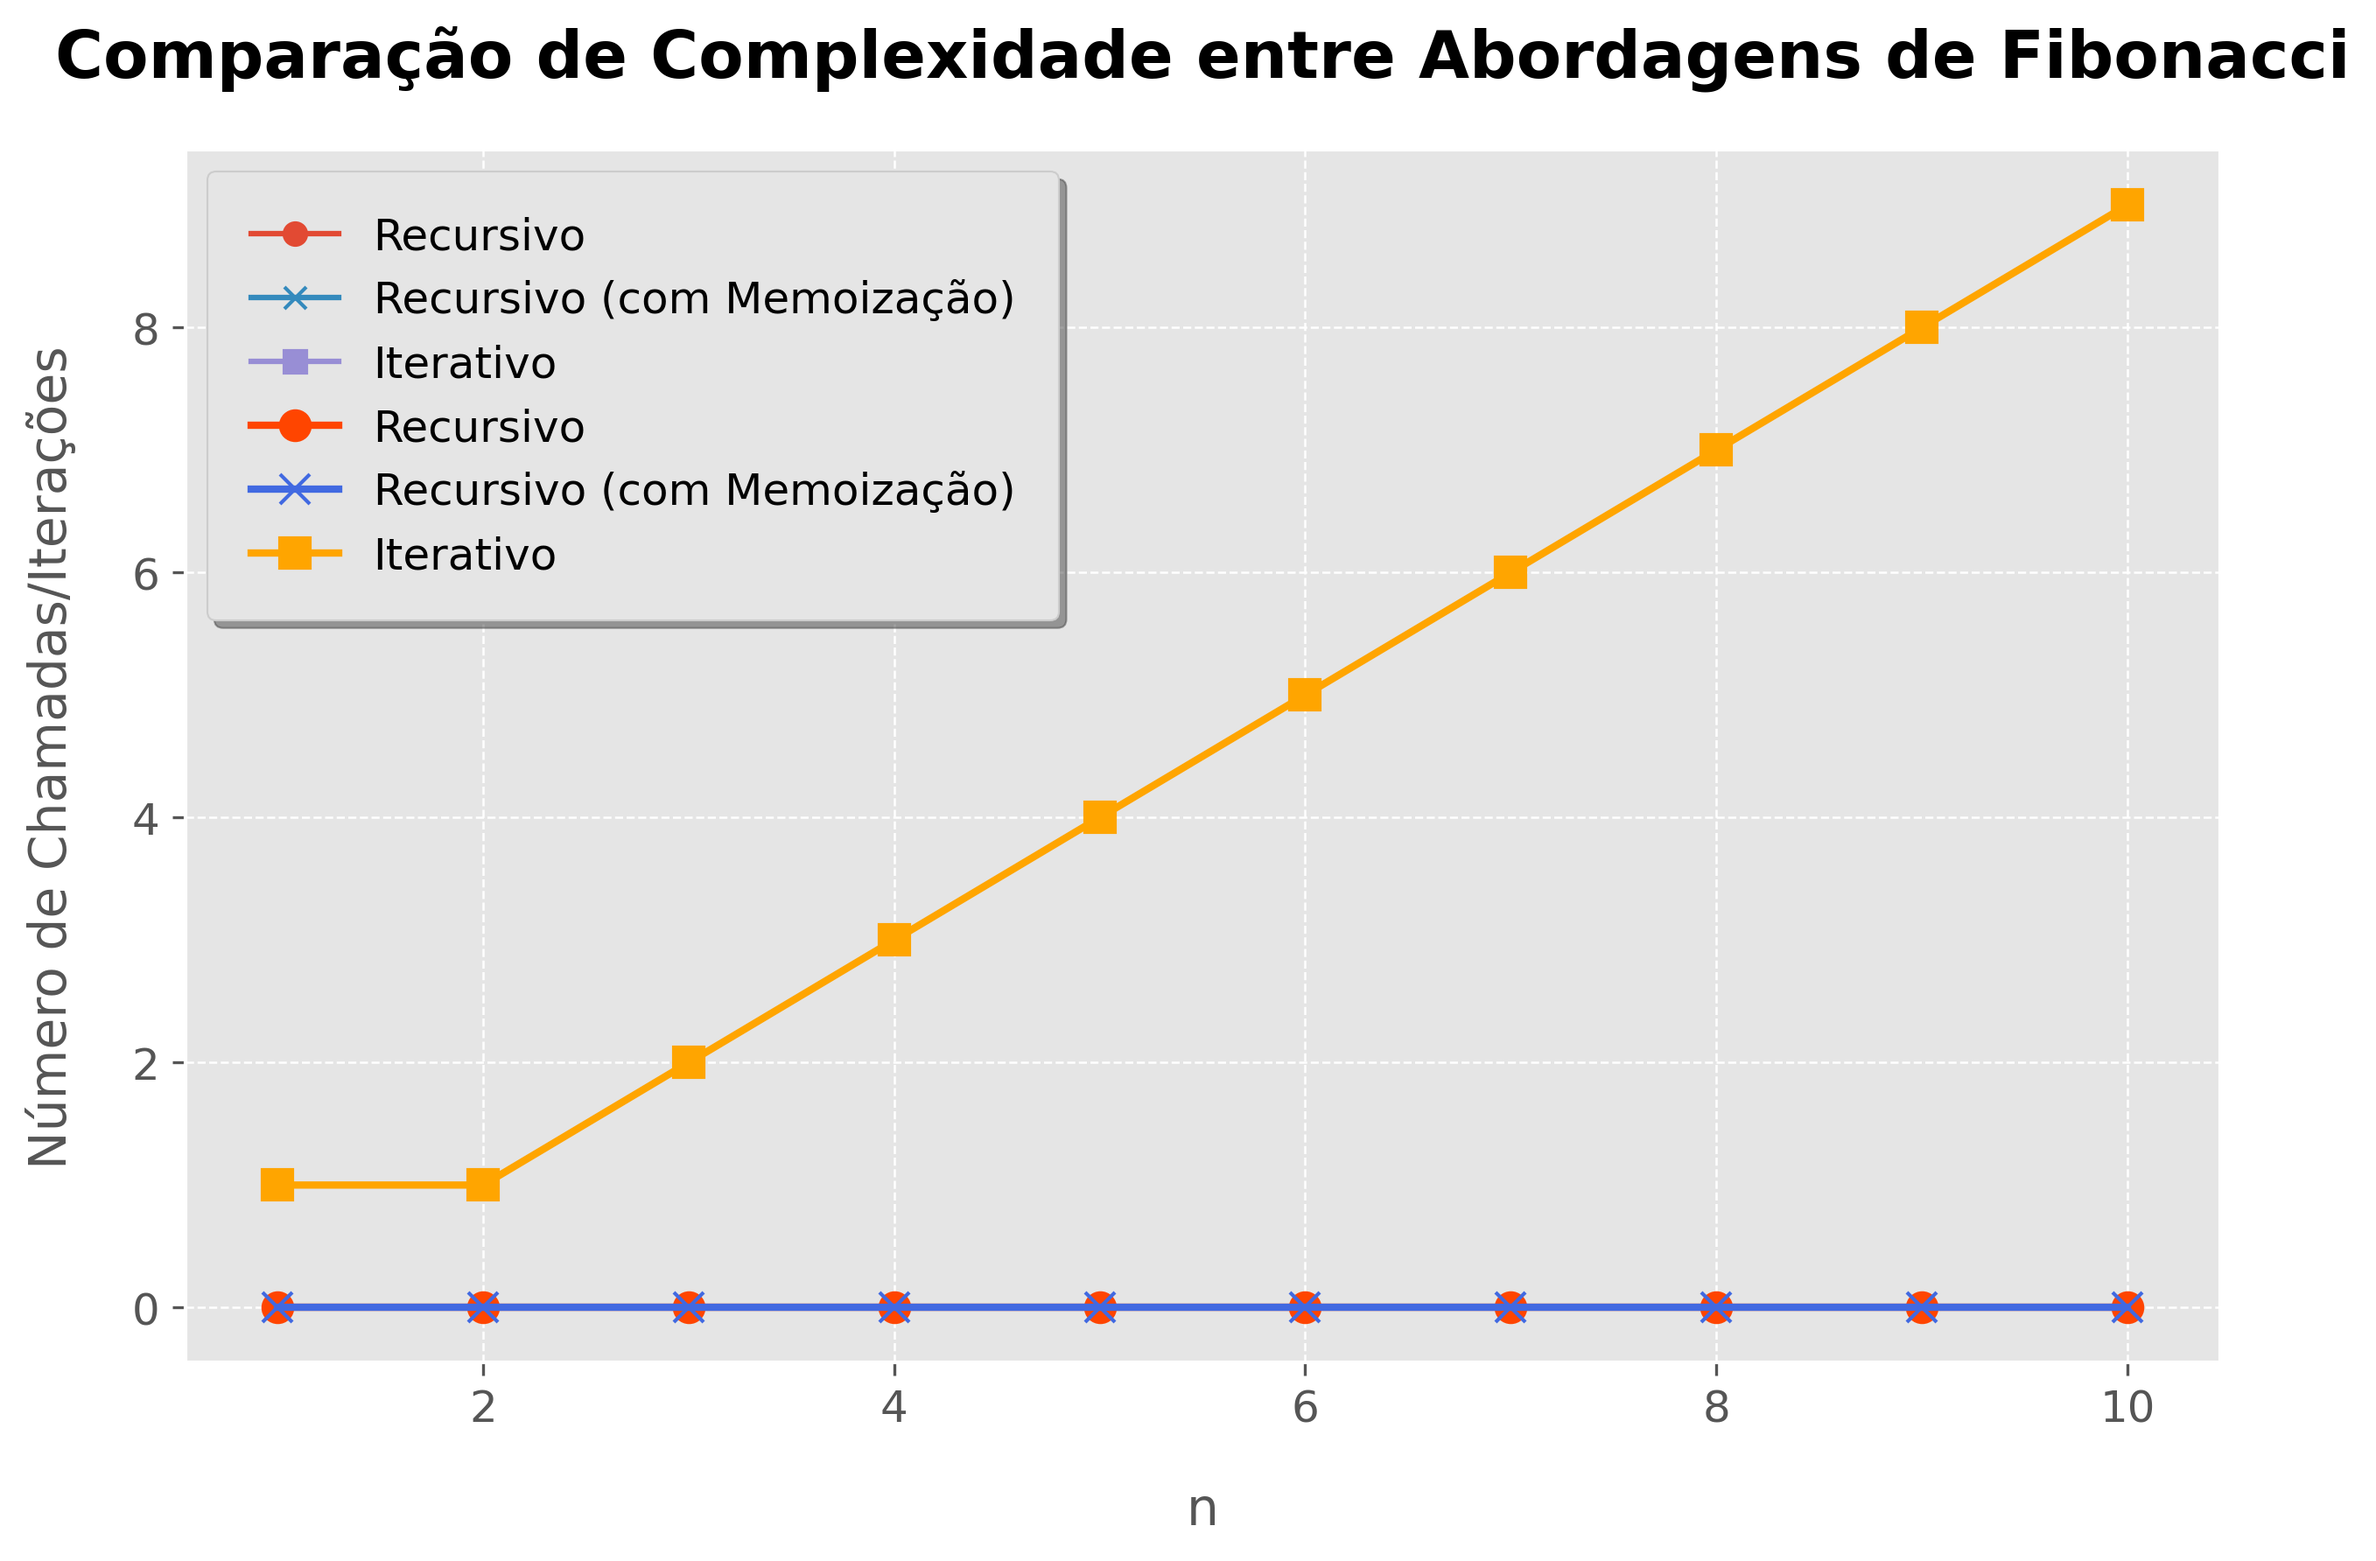
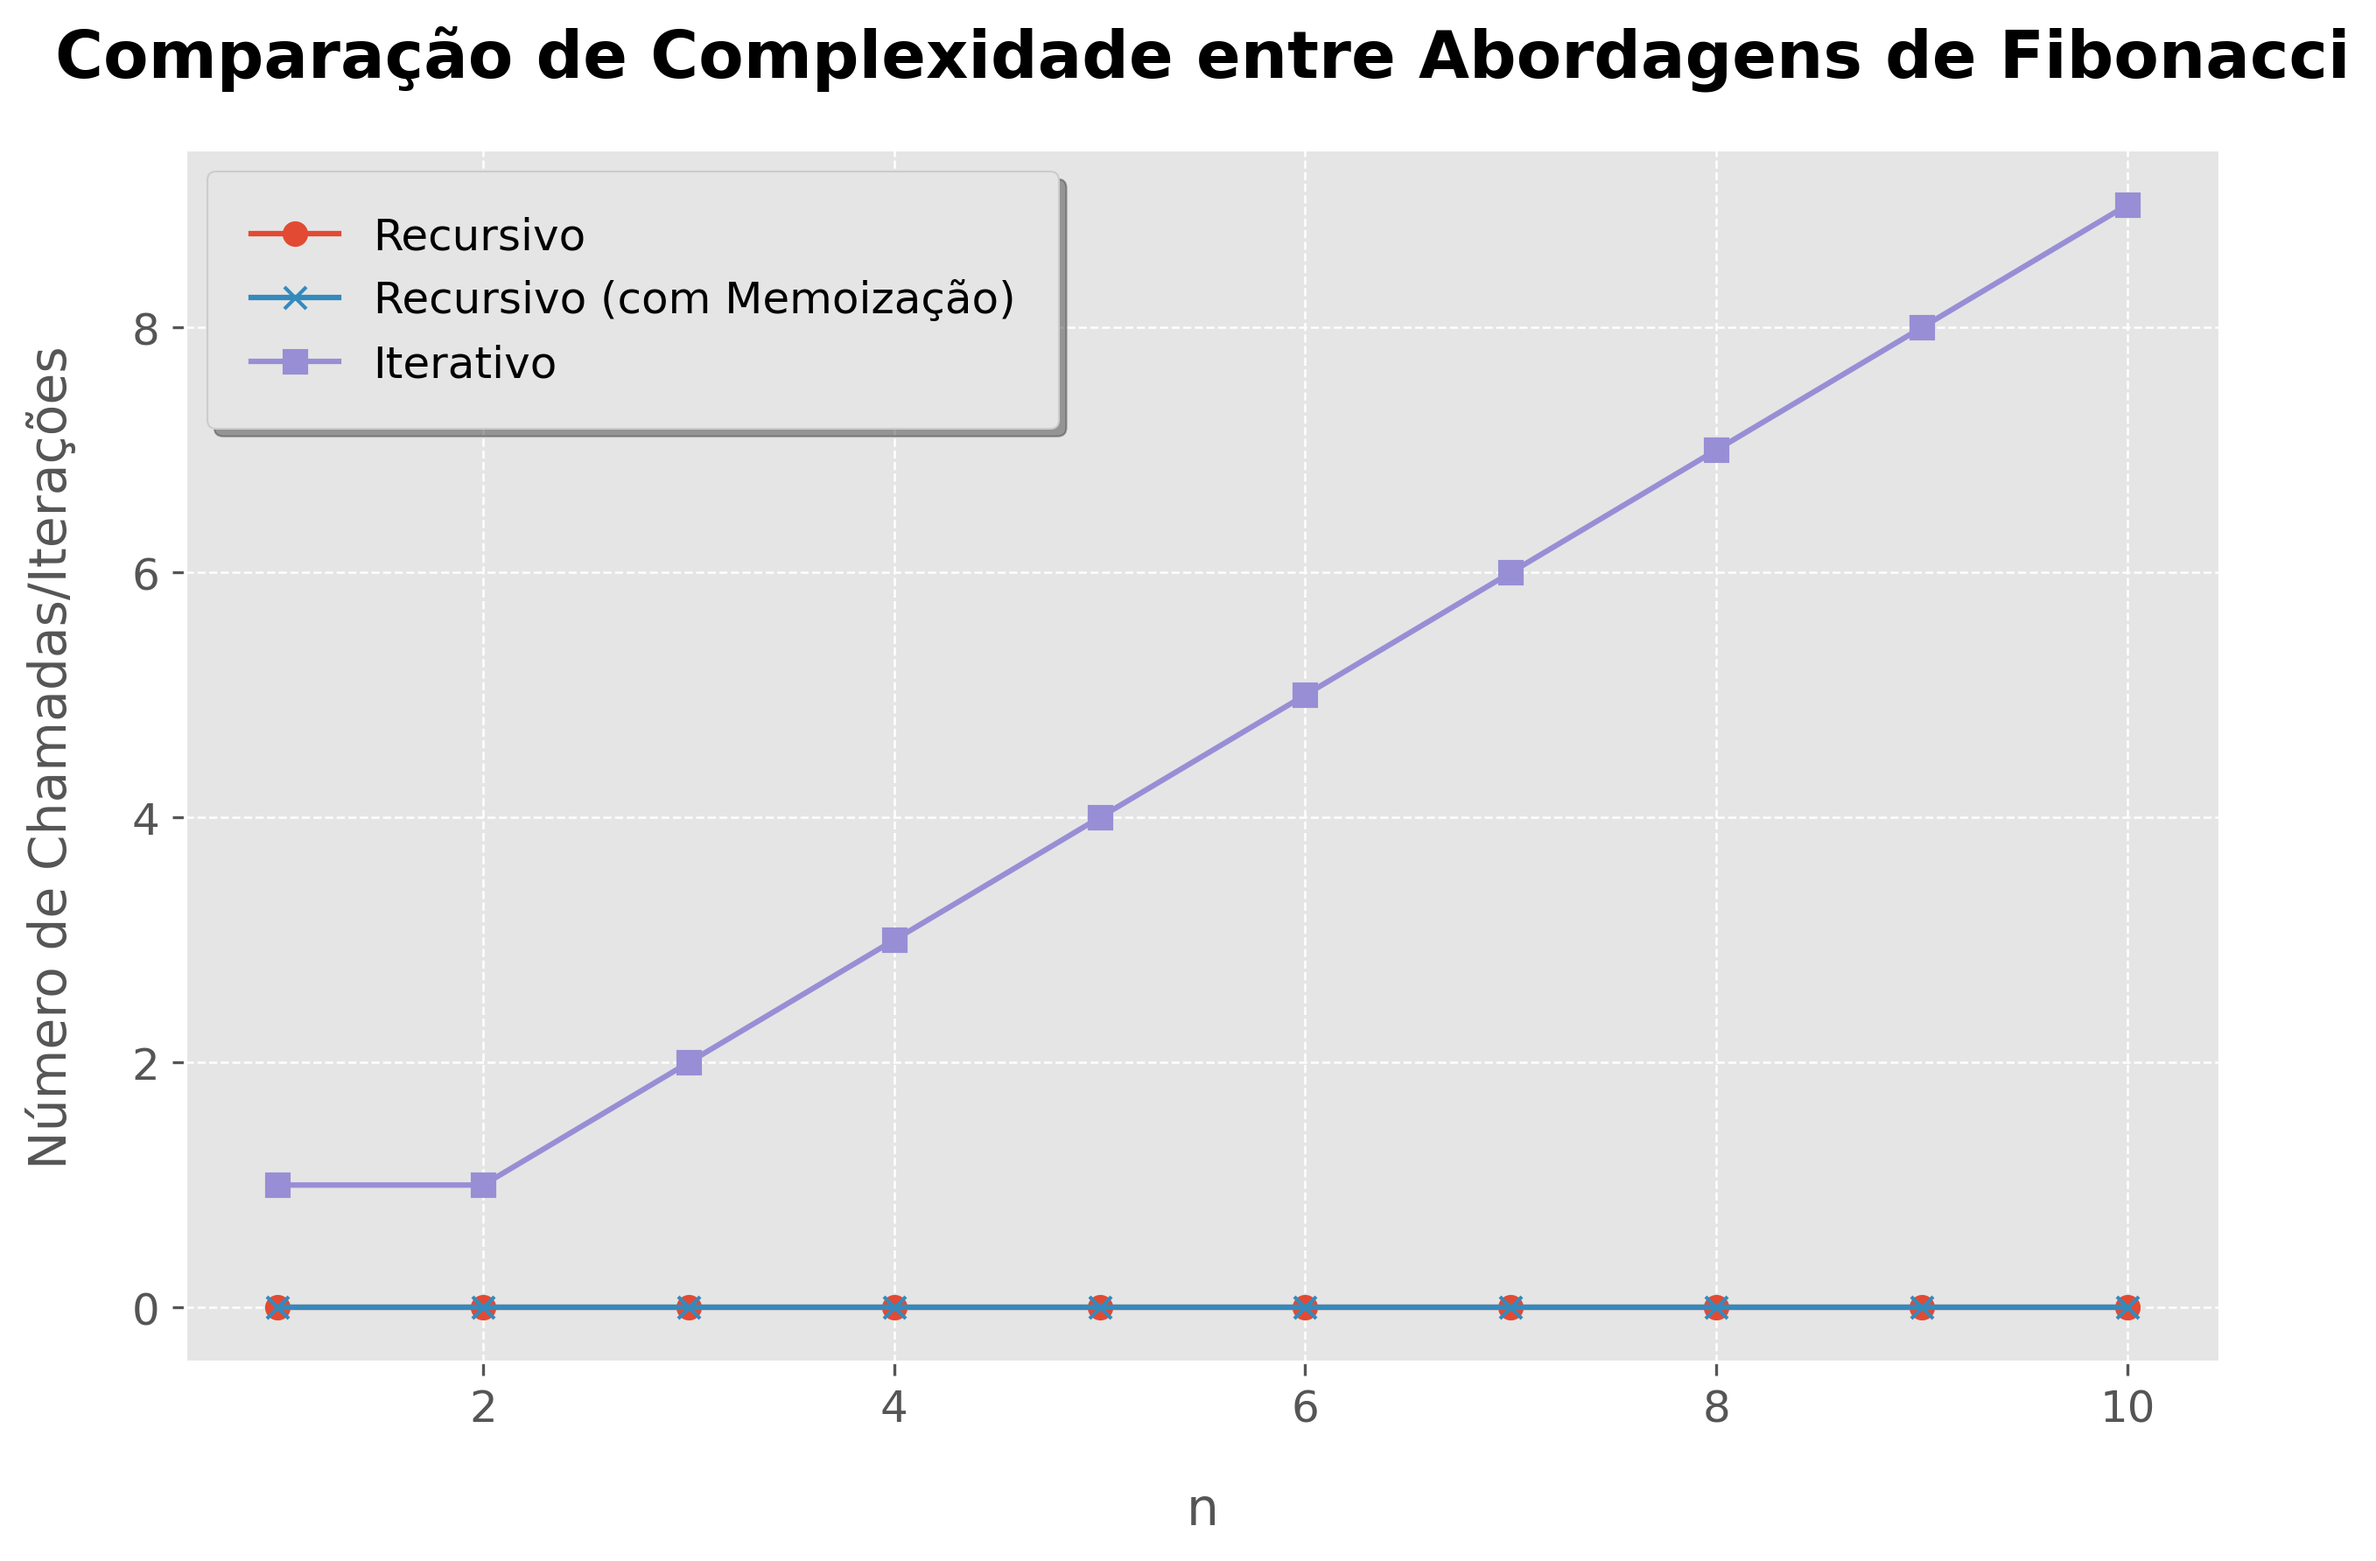
+update

diff --git a/IMPACTA/2SEM/tecnicas-de-programacao/AP2 - Atividade Preparatória 1/main.py b/IMPACTA/2SEM/tecnicas-de-programacao/AP2 - Atividade Preparatória 1/main.py
@@ -95,6 +95,11 @@ plt.plot(n_values, list(resultados_recursivo.values()), label='Recursivo', marke
 plt.plot(n_values, list(resultados_memoizacao.values()), label='Recursivo (com Memoização)', marker='x')
 plt.plot(n_values, list(resultados_iterativo.values()), label='Iterativo', marker='s')
 
+# -----> outro estilo <-----
+# plt.plot(n_values, list(resultados_recursivo.values()), label='Recursivo', color=colors[0], marker='o', linewidth=2, markersize=8)
+# plt.plot(n_values, list(resultados_memoizacao.values()), label='Recursivo (com Memoização)', color=colors[1], marker='x', linewidth=2, markersize=8)
+# plt.plot(n_values, list(resultados_iterativo.values()), label='Iterativo', color=colors[2], marker='s', linewidth=2, markersize=8)
+
 # Configurando o gráfico
 plt.xlabel('n')
 plt.ylabel('Número de Chamadas/Iterações')
@@ -104,9 +109,9 @@ plt.grid(True)
 
 colors = ['#FF4500', '#4169E1', '#FFA500'] 
 
-plt.plot(n_values, list(resultados_recursivo.values()), label='Recursivo', color=colors[0], marker='o', linewidth=2, markersize=8)
-plt.plot(n_values, list(resultados_memoizacao.values()), label='Recursivo (com Memoização)', color=colors[1], marker='x', linewidth=2, markersize=8)
-plt.plot(n_values, list(resultados_iterativo.values()), label='Iterativo', color=colors[2], marker='s', linewidth=2, markersize=8)
+# plt.plot(n_values, list(resultados_recursivo.values()), label='Recursivo', color=colors[0], marker='o', linewidth=2, markersize=8)
+# plt.plot(n_values, list(resultados_memoizacao.values()), label='Recursivo (com Memoização)', color=colors[1], marker='x', linewidth=2, markersize=8)
+# plt.plot(n_values, list(resultados_iterativo.values()), label='Iterativo', color=colors[2], marker='s', linewidth=2, markersize=8)
 
 plt.title('Comparação de Complexidade entre Abordagens de Fibonacci', fontsize=18, fontweight='bold', pad=20)
 plt.xlabel('n', fontsize=14, labelpad=15)
